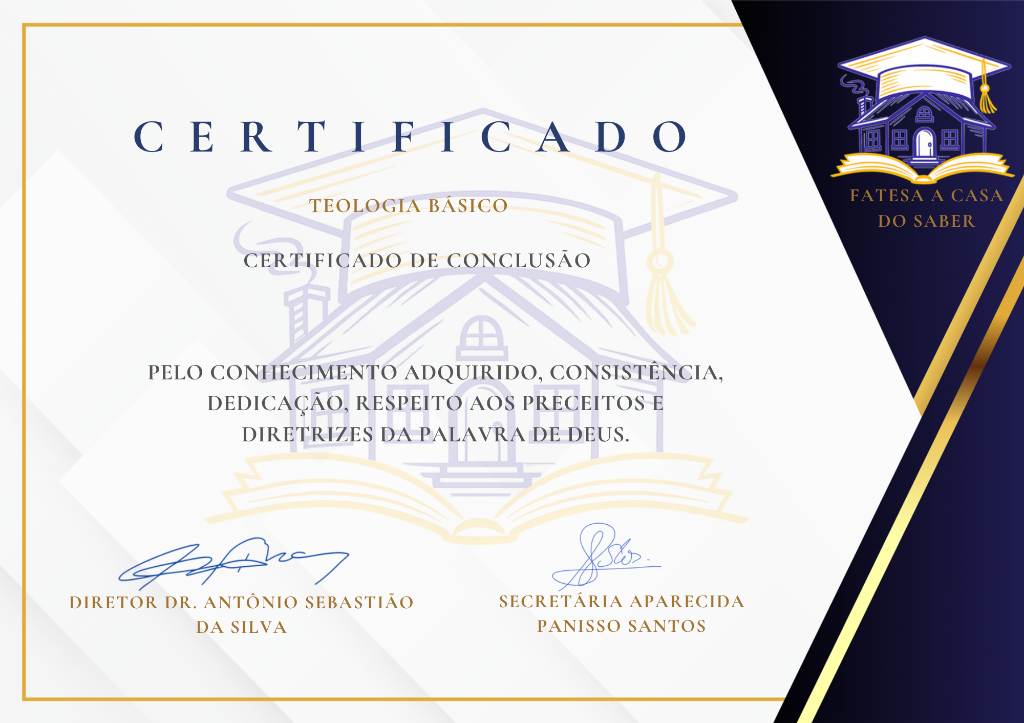
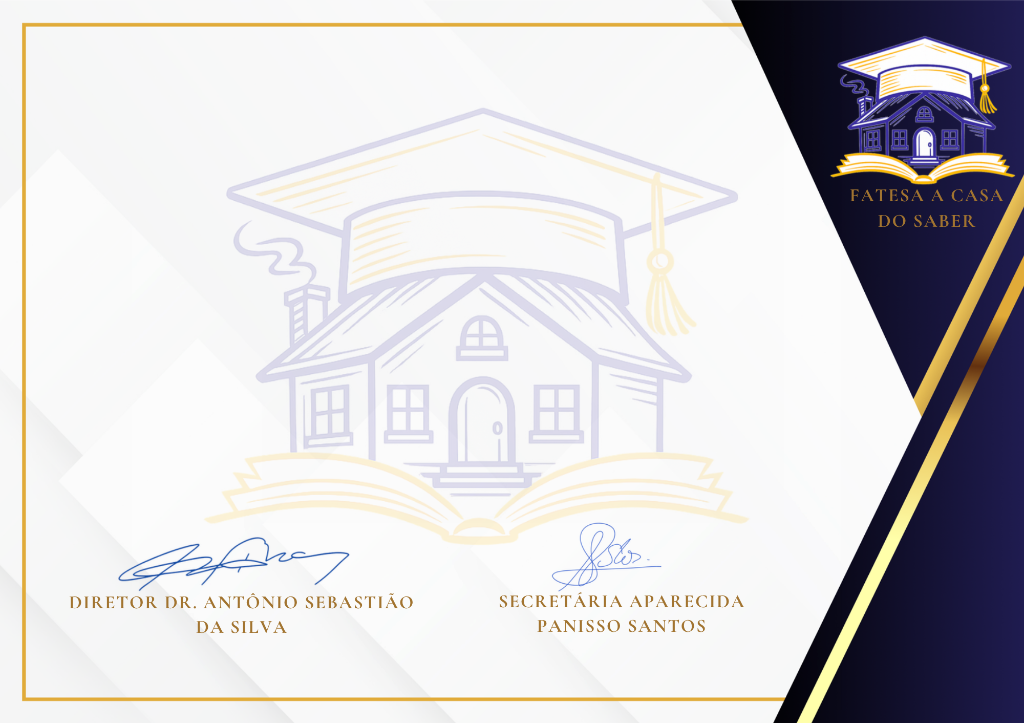
Usa o novo template em branco do usuário e desenha todo o texto via jsPDF

diff --git a/src/utils/pdfGenerator.ts b/src/utils/pdfGenerator.ts
@@ -206,23 +206,41 @@ export const generateCertificadoPDF = async (
     console.warn("Background image not found. The certificate might be blank.");
   }
 
-  // Ajuste fino para alinhar ao centro da área visual
+  // Ajuste fino para alinhar ao centro da área visual (considerando a faixa lateral direita)
   const centerX = width / 2 - 20; 
 
-  // Imprime o nível do curso (dinâmico)
-  // Subido para Y=35 para não sobrepor o nome que agora está em Y=50
+  // 1. Título "CERTIFICADO"
+  doc.setTextColor(24, 38, 86); // Azul escuro
+  doc.setFontSize(40);
+  doc.setFont('times', 'bold');
+  doc.text('C E R T I F I C A D O', centerX, 45, { align: 'center' });
+
+  // 2. Nível do Curso
   const cursoTexto = cursoNivel === 'medio' ? 'TEOLOGIA MÉDIO' : 'TEOLOGIA BÁSICO';
   doc.setTextColor(184, 134, 11); // Dourado
   doc.setFontSize(16);
   doc.setFont('times', 'bold');
-  doc.text(cursoTexto, centerX, 35, { align: 'center' });
+  doc.text(cursoTexto, centerX, 65, { align: 'center' });
 
-  // Nome do aluno
-  // Posição no eixo Y: 5cm (50mm) conforme nova especificação
-  doc.setTextColor(40, 50, 100); // Azul escuro original
-  doc.setFontSize(36); // Tamanho original
+  // 3. Subtítulo "CERTIFICADO DE CONCLUSÃO"
+  doc.setTextColor(80, 80, 80); // Cinza escuro
+  doc.setFontSize(16);
+  doc.setFont('times', 'bold');
+  doc.text('CERTIFICADO DE CONCLUSÃO', centerX, 80, { align: 'center' });
+
+  // 4. Nome do Aluno
+  doc.setTextColor(24, 38, 86); // Azul escuro
+  doc.setFontSize(36);
   doc.setFont('times', 'italic');
-  doc.text(`"${alunoNome}"`, centerX, 50, { align: 'center' });
+  doc.text(`"${alunoNome}"`, centerX, 100, { align: 'center' });
+
+  // 5. Parágrafo de texto
+  doc.setTextColor(80, 80, 80); // Cinza escuro
+  doc.setFontSize(14);
+  doc.setFont('times', 'bold');
+  doc.text('PELO CONHECIMENTO ADQUIRIDO, CONSISTÊNCIA,', centerX, 120, { align: 'center' });
+  doc.text('DEDICAÇÃO, RESPEITO AOS PRECEITOS E', centerX, 128, { align: 'center' });
+  doc.text('DIRETRIZES DA PALAVRA DE DEUS.', centerX, 136, { align: 'center' });
 
   // Baixar
   doc.save(`Certificado_${cursoNivel}_${alunoNome.replace(/\s+/g, '_')}.pdf`);
